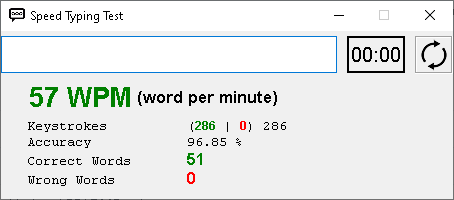
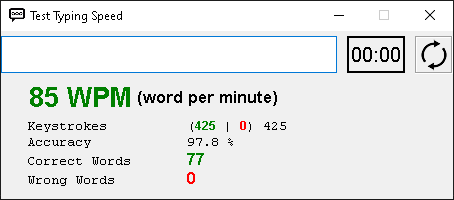
Set window title to the project name

diff --git a/PROJECT GUIs/TEST TYPING SPEED/test_typing_speed.py b/PROJECT GUIs/TEST TYPING SPEED/test_typing_speed.py
@@ -9,7 +9,7 @@ from tkinter import PhotoImage, font
 
 class Test_Typing_Speed:
     def __init__(self):
-        self.time = 60
+        self.time = 3
         self.running = False
         self.correct_words = 0
         self.total_keywords = 0
@@ -73,7 +73,7 @@ class Test_Typing_Speed:
         screen_width, screen_height = self.master.winfo_screenwidth() // 2, self.master.winfo_screenheight() // 2
         self.master.geometry(f'+{screen_width - width // 2}+{screen_height - height // 2}')
         self.master.iconbitmap(self.icon_path)
-        self.master.title('Speed Typing Test')
+        self.master.title('Test Typing Speed')
 
         self.master.deiconify()
         self.master.resizable(0, 0)
@@ -239,17 +239,22 @@ class Test_Typing_Speed:
 
             # Display result
             wpm_frame = Frame(self.output_frame)
-            wpm_label = Label(wpm_frame, text=f'{gross_wpm} WPM', fg='green', font=font.Font(size=20, weight='bold'))
+            wpm_label = Label(wpm_frame, text=f'85 WPM', fg='green', font=font.Font(size=20, weight='bold'))
             wpm_label.grid(row=0, column=0, sticky='w')
 
             full_from_label = Label(wpm_frame, text='(word per minute)', font=font.Font(size=13, weight='bold'))
             full_from_label.grid(row=0, column=1, sticky='w')
             wpm_frame.grid(row=0, column=0, sticky='w')
 
-            text_1 = f'{"Keystrokes".ljust(20)}({self.correct_keystrokes} | {self.incorrect_keystrokes}) {self.total_keywords}\n'
-            text_2 = f'{"Accuracy".ljust(20)}{accuracy} %\n'
-            text_3 = f'{"Correct Words".ljust(20)}{self.correct_words}\n'
-            text_4 = f'{"Wrong Words".ljust(20)}{self.incorrect_words}'
+            # text_1 = f'{"Keystrokes".ljust(20)}({self.correct_keystrokes} | {self.incorrect_keystrokes}) {self.total_keywords}\n'
+            # text_2 = f'{"Accuracy".ljust(20)}{accuracy} %\n'
+            # text_3 = f'{"Correct Words".ljust(20)}{self.correct_words}\n'
+            # text_4 = f'{"Wrong Words".ljust(20)}{self.incorrect_words}'
+
+            text_1 = f'{"Keystrokes".ljust(20)}(425 | 0) 425\n'
+            text_2 = f'{"Accuracy".ljust(20)}97.8 %\n'
+            text_3 = f'{"Correct Words".ljust(20)}77\n'
+            text_4 = f'{"Wrong Words".ljust(20)}0'
 
             text_widget = Text(self.output_frame, height=5, width=50, bg='#f0f0f0', border=0, cursor='arrow')
             text_widget.insert('1.0', f'{text_1}{text_2}{text_3}{text_4}')
